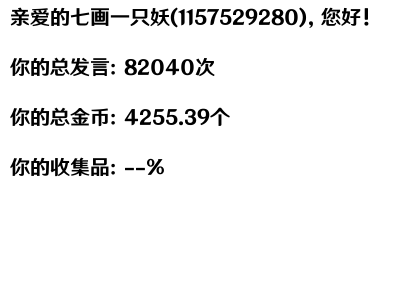
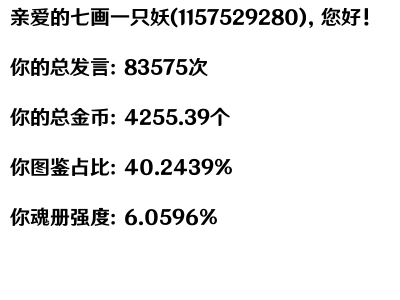
新增个人信息查看项：图鉴占比练度占比，修复抽到X阶不增加碎片的BUG

diff --git a/src/plugins/user/user_info/user_collection_info.py b/src/plugins/user/user_info/user_collection_info.py
@@ -1,0 +1,65 @@
+'''
+Author: 七画一只妖
+Date: 2022-03-23 20:34:57
+LastEditors: 七画一只妖
+LastEditTime: 2022-03-23 21:33:29
+Description: file content
+'''
+
+import os
+import json
+
+
+# 检索万象物语抽卡的路径（sdorica_draw文件夹）
+# 拼接路径
+PACK_PATH = f"src\\plugins\\function\\sdorica_draw"
+
+# 用户魂册
+USER_PACK_PATH = f"{PACK_PATH}\\data\\user_package.json"
+
+# 现有的角色池（文件夹）路径
+ROLE_POOL_PATH = f"{PACK_PATH}\\char"
+
+
+# 计算ROLE_POOL_PATH下的文件及其子孙文件夹内有多少个图片
+def get_role_pool_num():
+    role_pool_num = 0
+    for root, dirs, files in os.walk(ROLE_POOL_PATH):
+        for file in files:
+            if file.endswith(".png"):
+                role_pool_num += 1
+    return role_pool_num
+    
+
+# 传入一个字典，key是角色名，value是角色碎片，遍历所有角色，计算value是否超过225，如果超过225，则写作225，否则不变
+# 返回一个字典，key是角色名，value是比例
+def get_role_pool_num_ratio(role_pool_num_dict):
+    for key in role_pool_num_dict:
+        if role_pool_num_dict[key] > 225:
+            role_pool_num_dict[key] = 225
+    # 累加这些value
+    total = 0
+    for key in role_pool_num_dict:
+        total += role_pool_num_dict[key]
+    total_flag = get_role_pool_num() *225
+    # 计算total 和 total_flag的比例，并保留两位小数
+    return round((total / total_flag)*100, 2)
+
+
+# 根据传入的user_id，在USER_PACK_PATH里面查找对应的字典并返回
+def get_user_package(user_id):
+    with open(USER_PACK_PATH, "r", encoding="utf-8") as f:
+        user_package = json.load(f)
+    return user_package[user_id]
+
+
+# 传入user_id，返回练度比例
+def get_user_package_ratio(user_id):
+    user_package = get_user_package(user_id)
+    return get_role_pool_num_ratio(user_package)
+
+
+# 传入user_id，返回图鉴比例
+def get_user_package_book_ratio(user_id):
+    user_package_count = len(get_user_package(user_id))
+    return round((user_package_count / get_role_pool_num())*100, 2)

diff --git a/src/plugins/user/user_info/get_image_new.py b/src/plugins/user/user_info/get_image_new.py
@@ -2,7 +2,7 @@
 Author: 七画一只妖
 Date: 2022-03-20 13:02:37
 LastEditors: 七画一只妖
-LastEditTime: 2022-03-20 13:50:16
+LastEditTime: 2022-03-23 21:31:32
 Description: file content
 '''
 import base64
@@ -10,6 +10,8 @@ from io import BytesIO
 from os import path
 
 from PIL import Image, ImageDraw, ImageFont
+
+from .user_collection_info import get_user_package_ratio,get_user_package_book_ratio
 
 
 FILE_PATH = path.join(path.dirname(__file__))
@@ -24,7 +26,8 @@ def data_to_image(data: list) -> str:
     text += "亲爱的" + str(data[0]) + "(" + str(data[1]) + ")" + "，您好！\n\n"
     text += "你的总发言：" + str(data[4]) + "次\n\n"
     text += "你的总金币：" + str("%.2f" % data[5]) + "个\n\n"
-    text += "你的收集品：" + "--%" + "\n\n"
+    text += "你图鉴占比：" + str(get_user_package_book_ratio(str(data[1]))) + "%\n\n"
+    text += "你魂册强度：" + str(get_user_package_ratio(str(data[1]))) + "%"
 
     bg = Image.new("RGB", (400, 300), (255, 255, 255))
     dr = ImageDraw.Draw(bg)

diff --git a/bot.py b/bot.py
@@ -2,7 +2,7 @@
 Author: 七画一只妖
 Date: 2022-01-07 20:25:48
 LastEditors: 七画一只妖
-LastEditTime: 2022-03-20 16:30:31
+LastEditTime: 2022-03-23 21:29:17
 Description: file content
 '''
 import nonebot
@@ -30,7 +30,7 @@ nonebot.init(apscheduler_config={
 # 正式模块
 # nonebot.load_plugins("src/plugins/admin")
 nonebot.load_plugins("src/plugins/function")
-# nonebot.load_plugins("src/plugins/user")
+nonebot.load_plugins("src/plugins/user")
 # nonebot.load_plugins("src/plugins/listener")
 # nonebot.load_plugins("src/plugins/speaker")
 # nonebot.load_plugins("src/plugins/help")

diff --git a/src/plugins/function/sdorica_draw/user_package.py b/src/plugins/function/sdorica_draw/user_package.py
@@ -2,7 +2,7 @@
 Author: 七画一只妖
 Date: 2021-09-09 18:36:14
 LastEditors: 七画一只妖
-LastEditTime: 2022-03-18 12:37:36
+LastEditTime: 2022-03-23 21:26:00
 Description: file content
 '''
 import json
@@ -80,7 +80,7 @@ def select_user_pack(char_name_list,is_new,user_id):
 
         # 根据阶数判断碎片增加量
         char_frame = 0
-        if"SP" in name or"3阶" in name:
+        if"SP" in name or"3阶" in name or"X阶" in name:
             char_frame = 50
         elif"2阶" in name:
             char_frame = 20

diff --git a/src/plugins/function/weather/__init__.py b/src/plugins/function/weather/__init__.py
@@ -2,7 +2,7 @@
 Author: 七画一只妖
 Date: 2022-01-19 21:32:13
 LastEditors: 七画一只妖
-LastEditTime: 2022-01-31 05:01:20
+LastEditTime: 2022-03-23 22:16:15
 Description: file content
 '''
 from nonebot import on_command

diff --git a/src/plugins/function/sdorica_draw/function_pkg.py b/src/plugins/function/sdorica_draw/function_pkg.py
@@ -2,7 +2,7 @@
 Author: 七画一只妖
 Date: 2022-03-16 18:58:50
 LastEditors: 七画一只妖
-LastEditTime: 2022-03-17 21:46:20
+LastEditTime: 2022-03-23 21:39:23
 Description: file content
 '''
 import random
